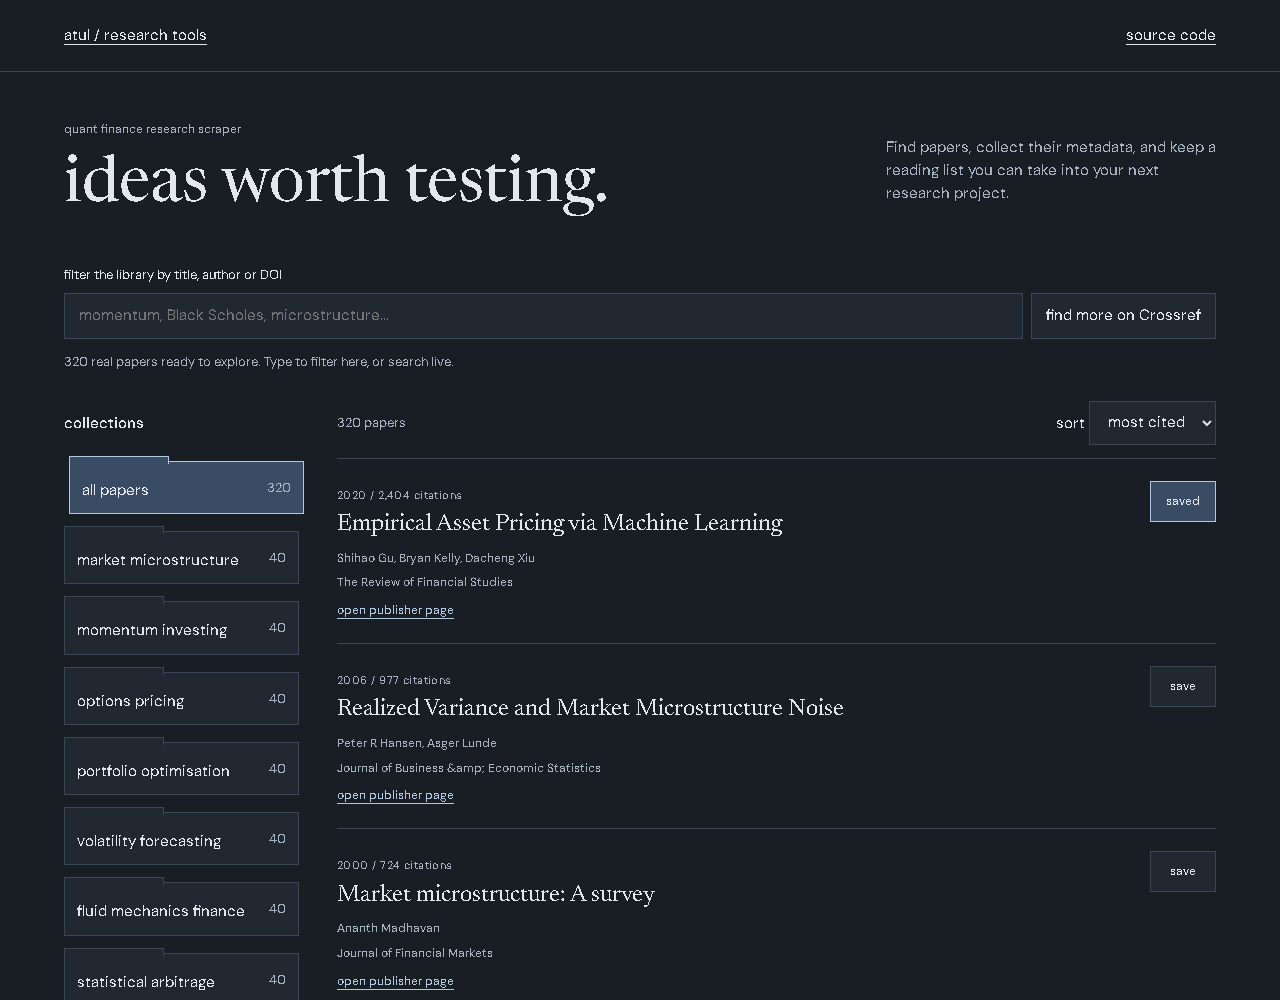
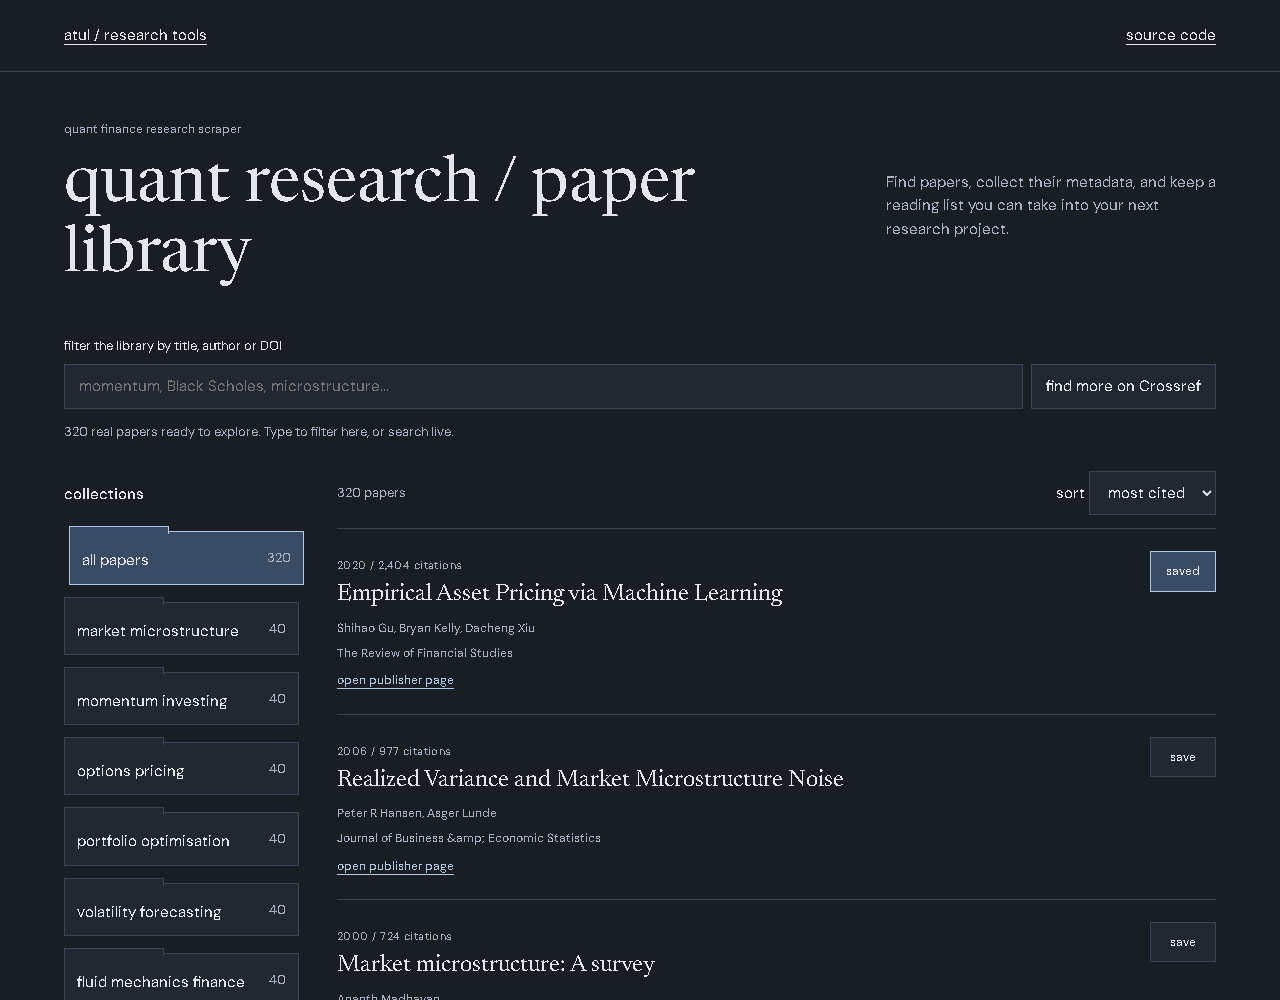
Make the project purpose and primary browsing workflow easier to find

diff --git a/examples/portfolio/index.html b/examples/portfolio/index.html
@@ -19,7 +19,7 @@
             <div class="intro">
                 <div>
                     <p class="eyebrow">quant finance research scraper</p>
-                    <h1>ideas worth testing.</h1>
+                    <h1>quant research / paper library</h1>
                 </div>
                 <p>
                     Find papers, collect their metadata, and keep a reading list
